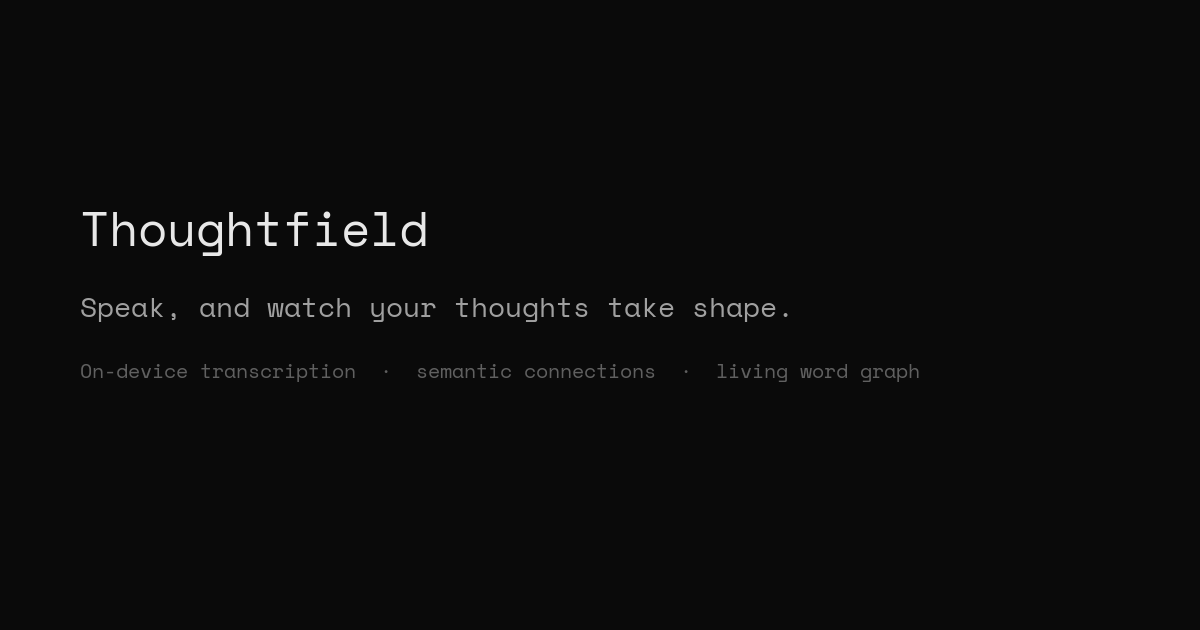
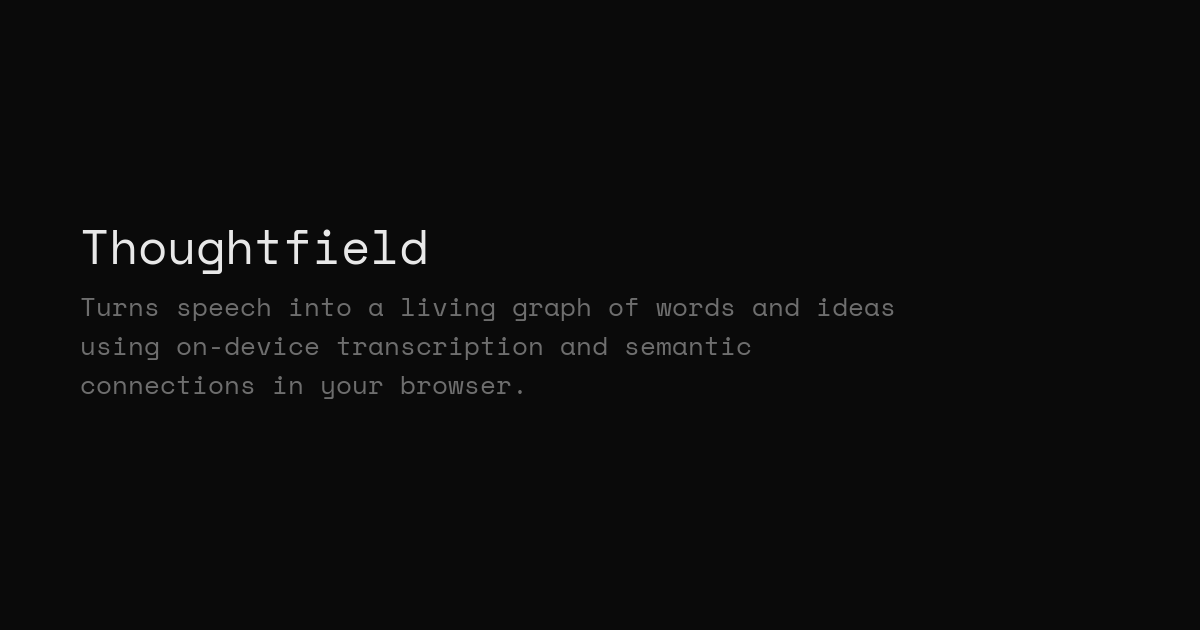
chore(deploy): add Vercel config and align brand assets
Ship vercel.json with COOP/COEP headers, match the SmolNotes favicon, and refresh the Open Graph image to the site description.

Changed region(s): [[0.0617, 0.5429, 0.7708, 0.6333], [0.0617, 0.3317, 0.37, 0.4524], [0.0617, 0.4524, 0.74, 0.5127]]

diff --git a/vite.config.ts b/vite.config.ts
@@ -10,14 +10,16 @@ export default defineConfig({
       configureServer(server) {
         server.middlewares.use((_req, res, next) => {
           res.setHeader("Cross-Origin-Opener-Policy", "same-origin");
-          res.setHeader("Cross-Origin-Embedder-Policy", "require-corp");
+          // Match production (Vercel): credentialless enables SAB while
+          // still allowing CDN fonts / model weights without CORP.
+          res.setHeader("Cross-Origin-Embedder-Policy", "credentialless");
           next();
         });
       },
       configurePreviewServer(server) {
         server.middlewares.use((_req, res, next) => {
           res.setHeader("Cross-Origin-Opener-Policy", "same-origin");
-          res.setHeader("Cross-Origin-Embedder-Policy", "require-corp");
+          res.setHeader("Cross-Origin-Embedder-Policy", "credentialless");
           next();
         });
       },